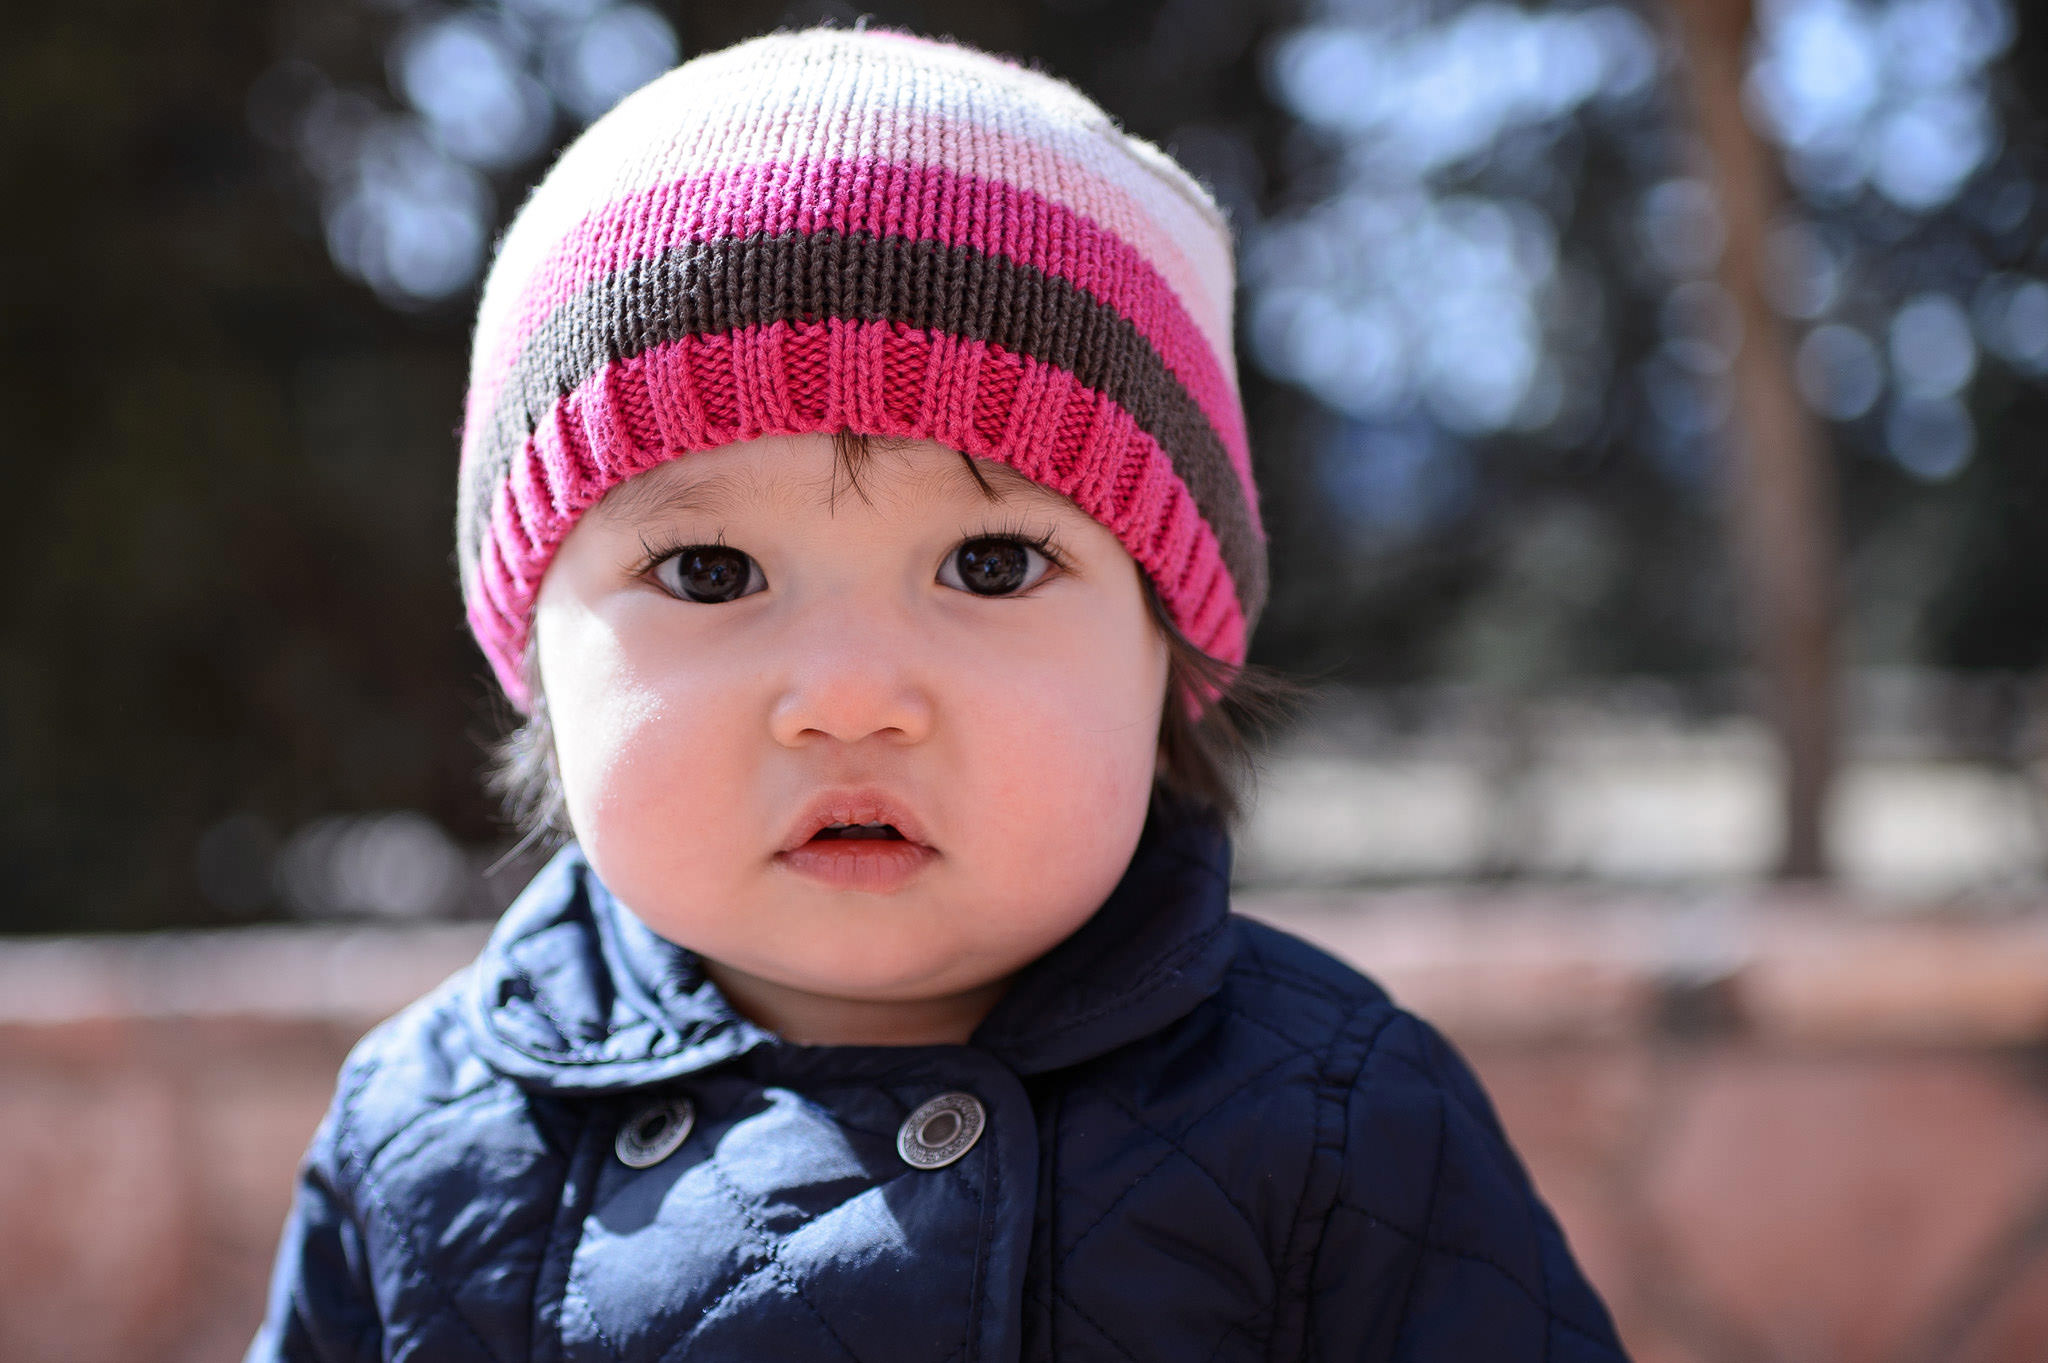
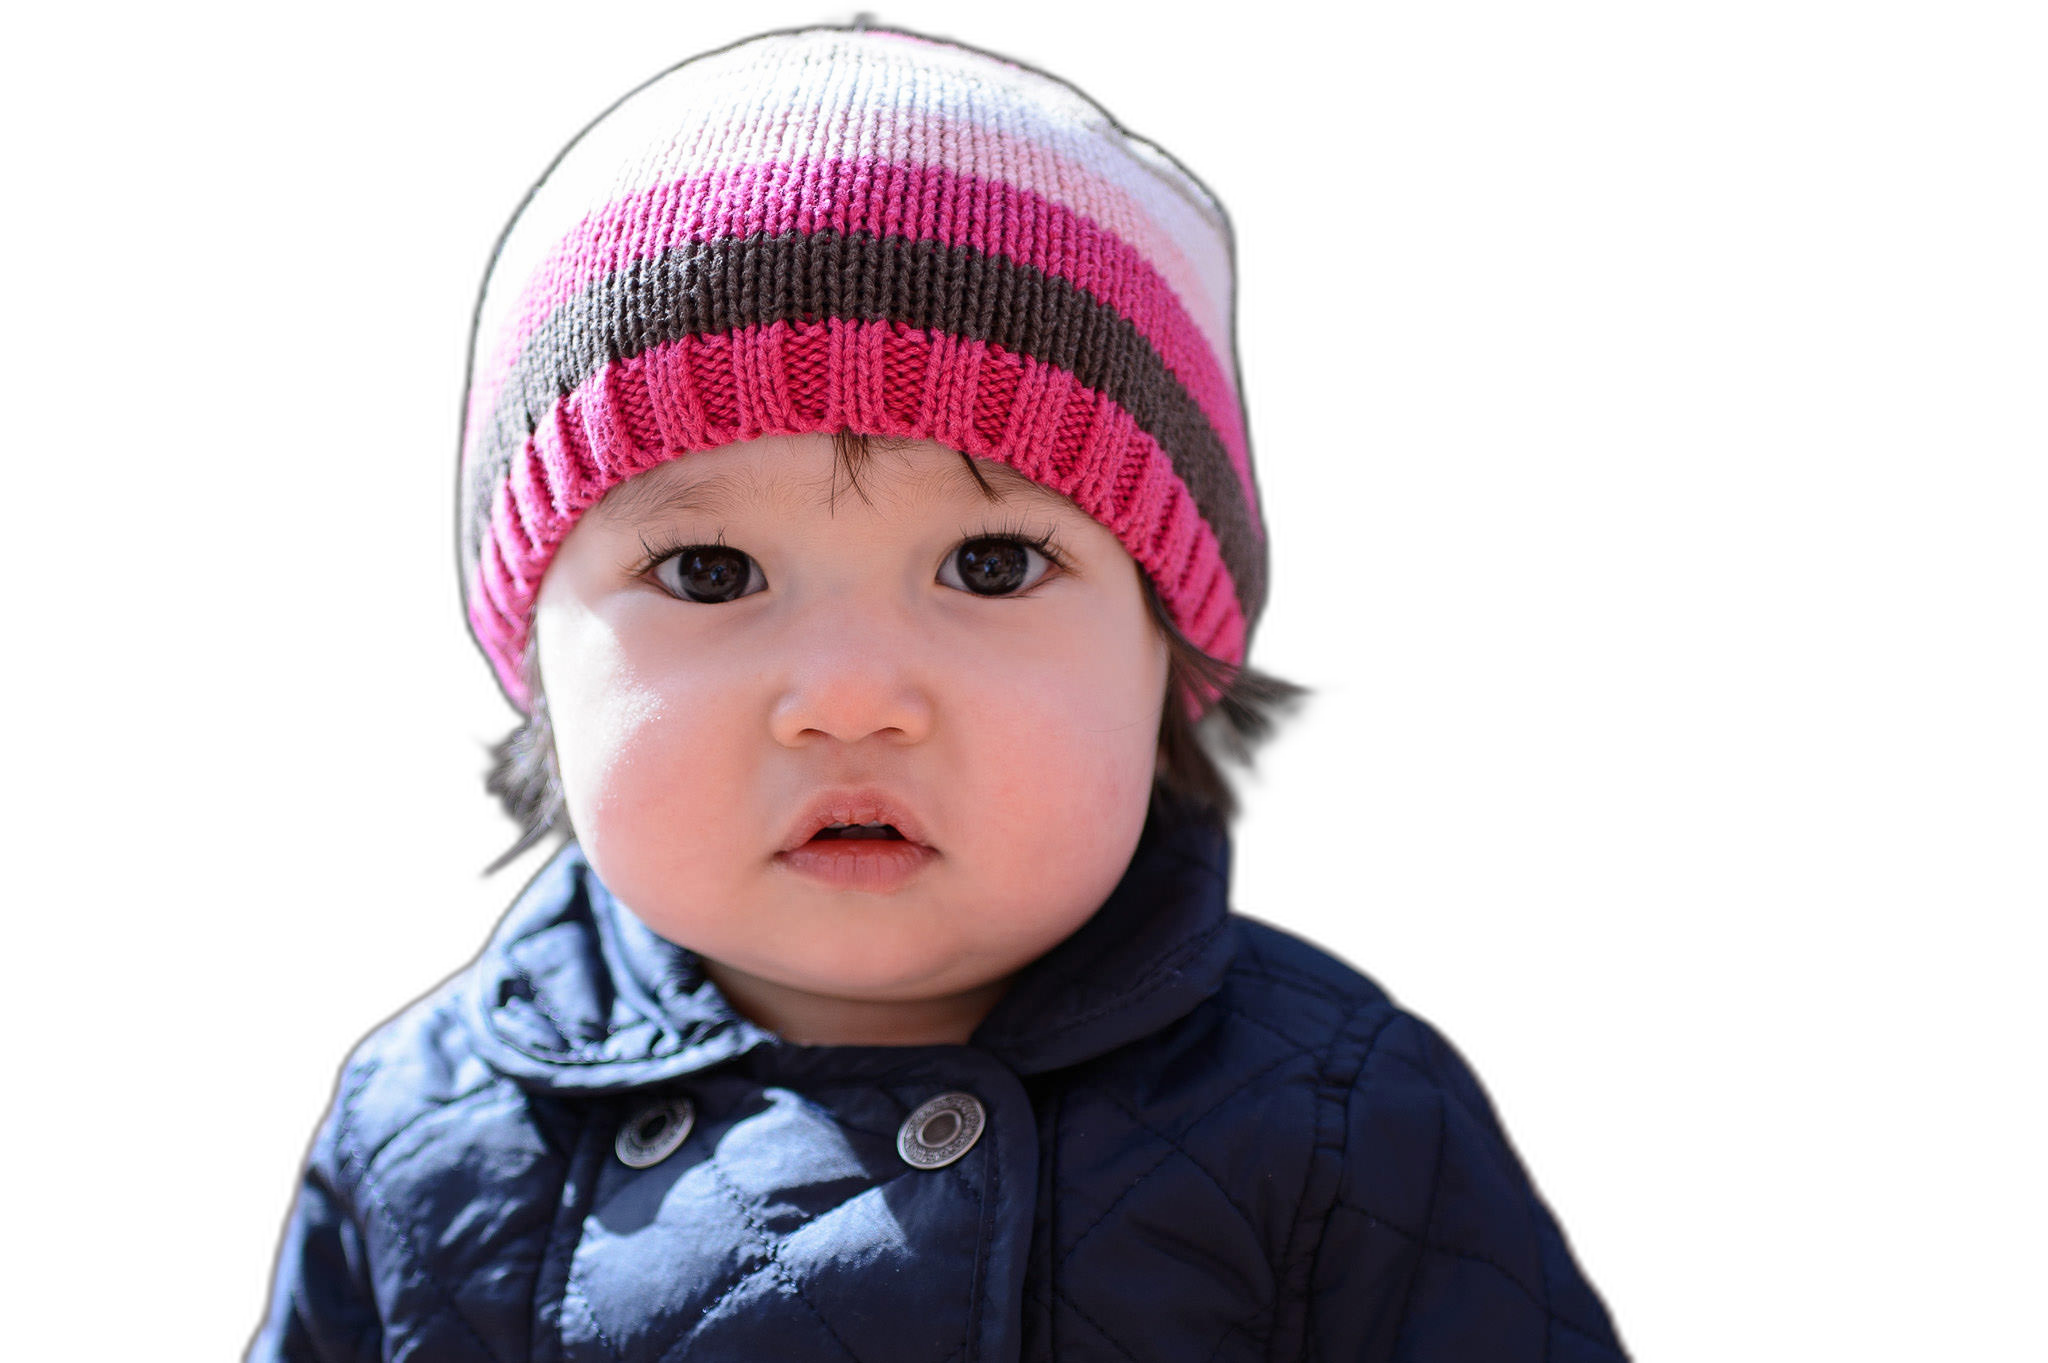
feat(files): configure paths

diff --git a/main.py b/main.py
@@ -1,7 +1,7 @@
 import os
-import sys
 from datetime import datetime
 from rembg import remove
+
 import logging
 
 logging.basicConfig(level=logging.INFO, format='%(asctime)s - %(name)s - %(levelname)s - %(message)s')
@@ -14,11 +14,12 @@ class BackgroundRemove:
     def process_images(self):
         today = datetime.now().strftime('%Y-%m-%d %H-%M-%S')
         proccessed_folder = os.path.join(self.output_path, today)
-        os.makedirs(proccessed_folder, exist_ok=True)
+        
         for filename in os.listdir(self.input_path):
-            if filename.endswith(('.png', 'jpg', 'jpeg')):
+            if filename.endswith(('.png', 'jpg', 'jpeg', 'webp')):
+                os.makedirs(proccessed_folder, exist_ok=True)
                 input_path = os.path.join(self.input_path, filename)
-                output_path = os.join(proccessed_folder, filename)
+                output_path = os.path.join(proccessed_folder, filename)
                 self.remove_background(input_path, output_path)
                 self.save_images(input_path, proccessed_folder)
 
@@ -36,4 +37,7 @@ class BackgroundRemove:
         new_path = os.path.join(originals_path, filename)
         os.rename(input_file, new_path)
 
+if __name__ == '__main__':
+    bg_remove = BackgroundRemove("input", "output")
+    bg_remove.process_images()
         
